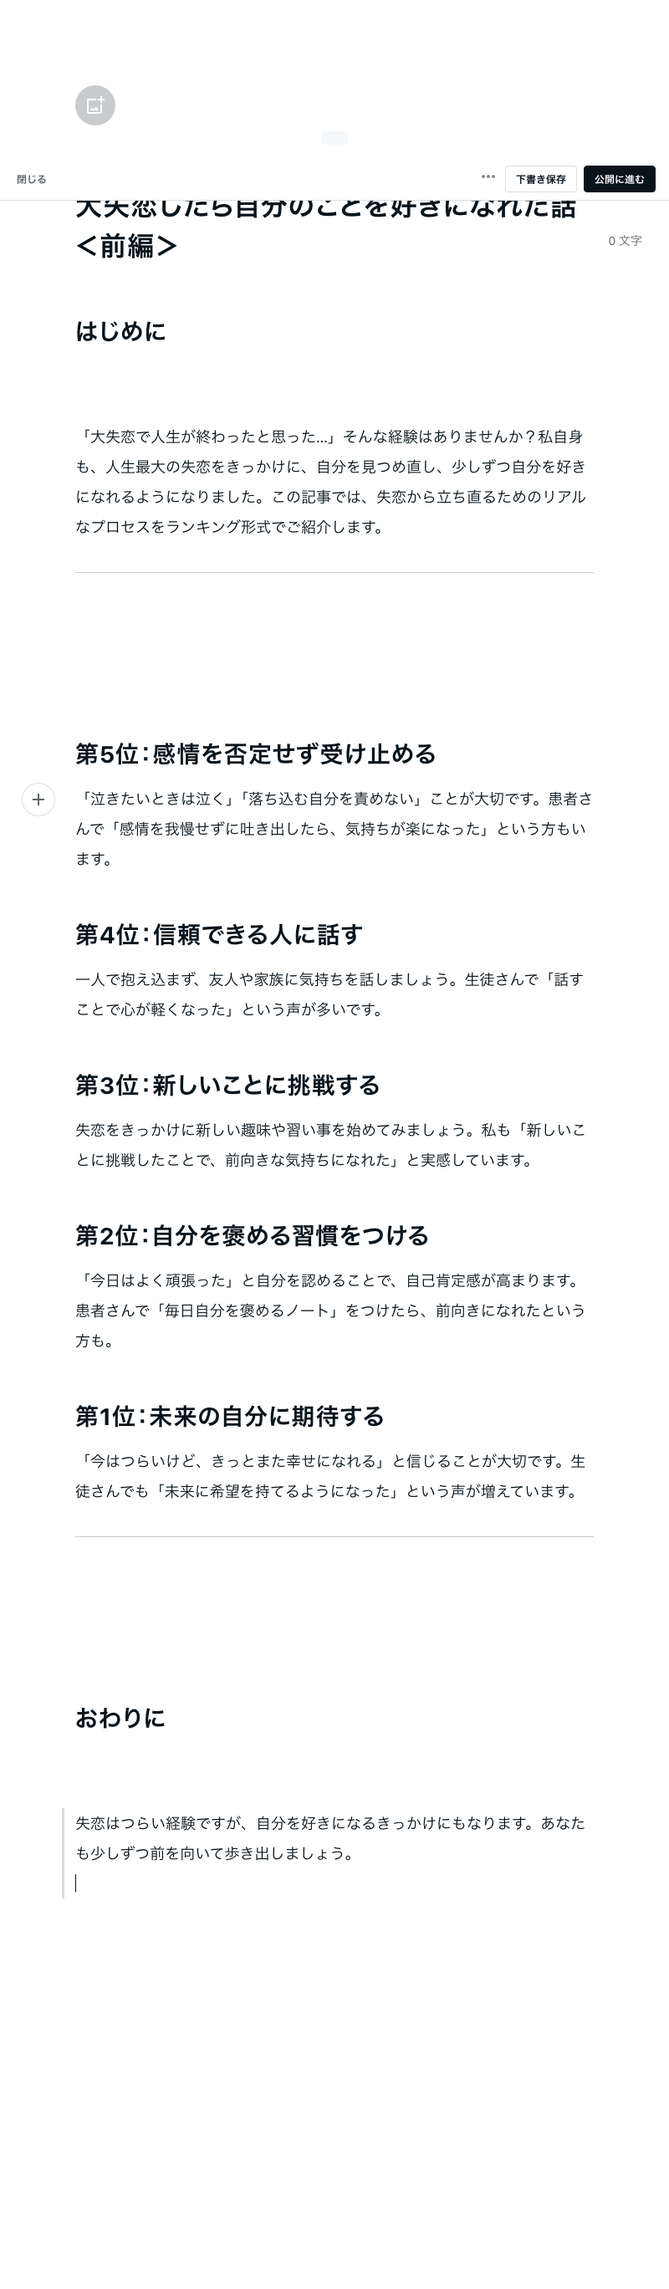
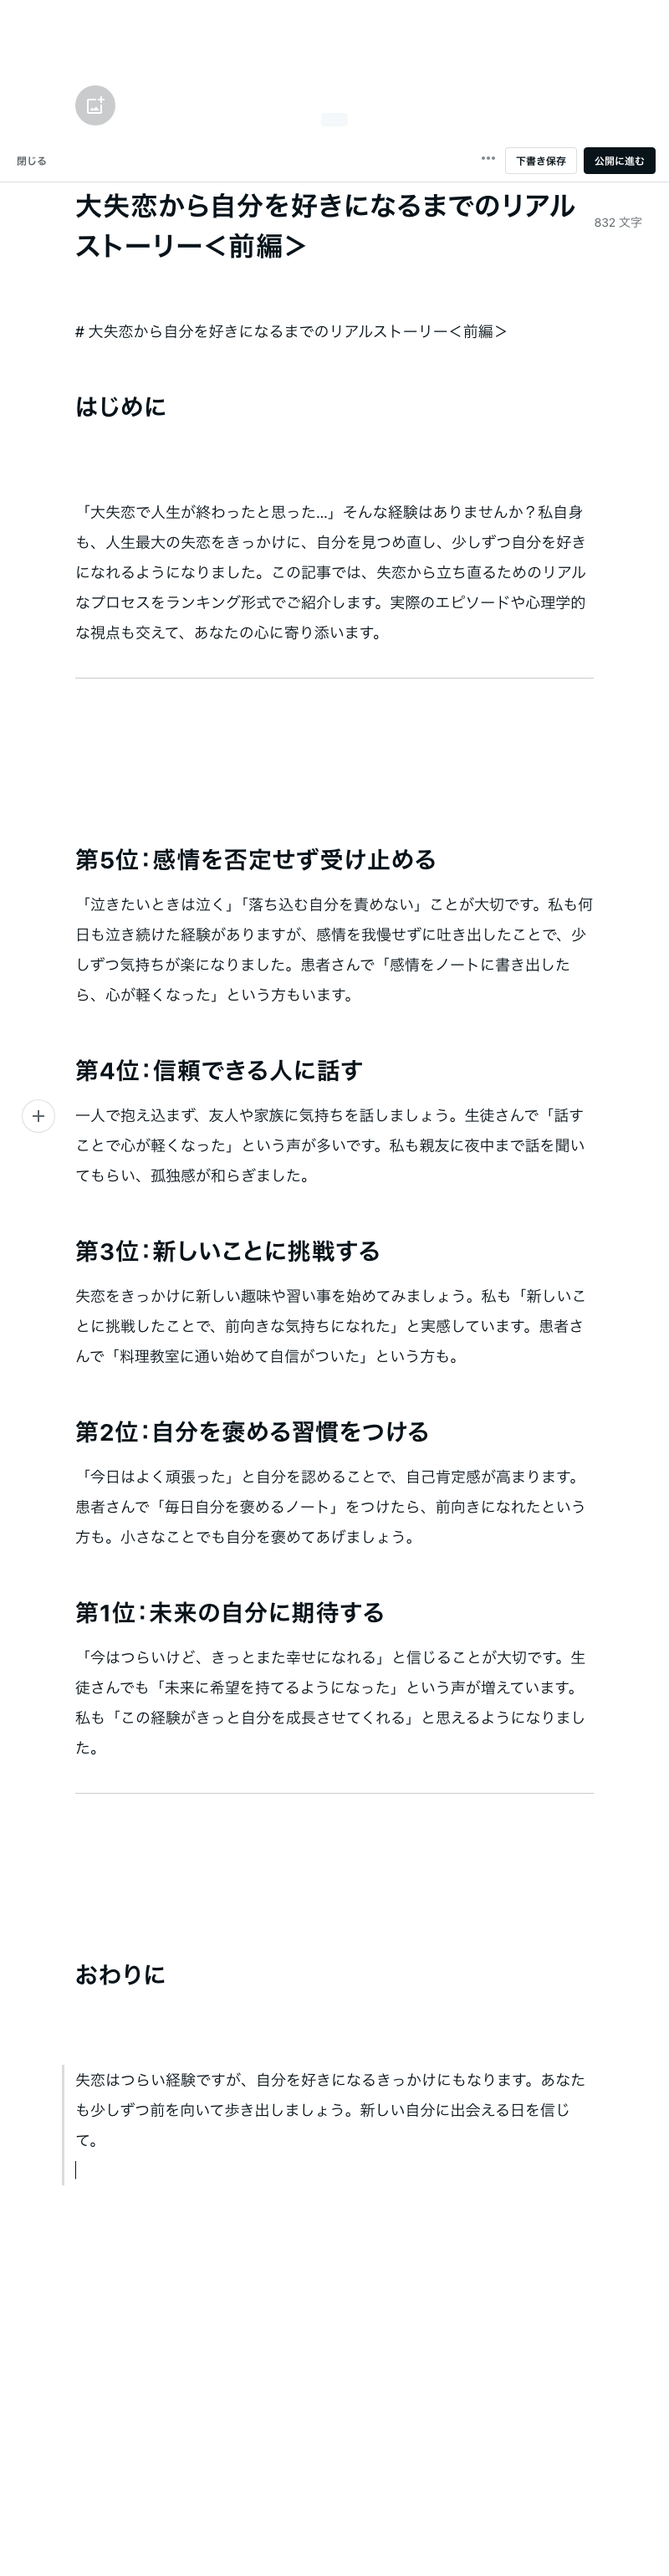
投稿成功

diff --git a/lambda/index.js b/lambda/index.js
@@ -94,10 +94,11 @@ async function main() {
   // 記事データの読み込み
   const fs = require('fs');
   const path = require('path');
-  const articlePath = path.join(__dirname, '../posts/8__2025-05-25-大失恋したら自分のことを好きになれた話前編.md');
+  const articlePath = path.join(__dirname, '../posts/8__2025-05-25-大失恋から自分を好きになるまでのリアルストーリー＜前編＞.md');
   const articleRaw = fs.readFileSync(articlePath, 'utf-8');
-  // タイトルはファイル名から抽出
-  const articleTitle = '大失恋したら自分のことを好きになれた話＜前編＞';
+  // タイトルはファイル先頭の# ...行から抽出
+  const titleMatch = articleRaw.match(/^#\s*(.+)$/m);
+  const articleTitle = titleMatch ? titleMatch[1].trim() : 'タイトル未取得';
   // 本文はファイル内容全体
   const articleBody = articleRaw;
 
@@ -128,6 +129,24 @@ async function main() {
   // スクリーンショットを保存
   await page.screenshot({ path: 'after_input.png', fullPage: true });
   console.log('スクリーンショットを保存しました: after_input.png');
+
+  // 「公開に進む」ボタンを探してクリック
+  console.log('「公開に進む」ボタンを探します...');
+  await page.waitForSelector('button');
+  const publishButtons = await page.$$('button');
+  let published = false;
+  for (const btn of publishButtons) {
+    const text = await (await btn.getProperty('innerText')).jsonValue();
+    if (text && text.trim().includes('公開に進む')) {
+      await btn.click();
+      published = true;
+      console.log('「公開に進む」ボタンをクリックしました');
+      break;
+    }
+  }
+  if (!published) {
+    throw new Error('「公開に進む」ボタンが見つかりませんでした');
+  }
 
   // await browser.close(); // ブラウザは自動で閉じない
 

diff --git a/posts/8__2025-05-25-大失恋から自分を好きになるまでのリアルストーリー＜前編＞.md b/posts/8__2025-05-25-大失恋から自分を好きになるまでのリアルストーリー＜前編＞.md
@@ -1,0 +1,28 @@
+# 大失恋から自分を好きになるまでのリアルストーリー＜前編＞
+
+## はじめに
+
+「大失恋で人生が終わったと思った…」そんな経験はありませんか？私自身も、人生最大の失恋をきっかけに、自分を見つめ直し、少しずつ自分を好きになれるようになりました。この記事では、失恋から立ち直るためのリアルなプロセスをランキング形式でご紹介します。実際のエピソードや心理学的な視点も交えて、あなたの心に寄り添います。
+
+---
+
+## 第5位：感情を否定せず受け止める
+「泣きたいときは泣く」「落ち込む自分を責めない」ことが大切です。私も何日も泣き続けた経験がありますが、感情を我慢せずに吐き出したことで、少しずつ気持ちが楽になりました。患者さんで「感情をノートに書き出したら、心が軽くなった」という方もいます。
+
+## 第4位：信頼できる人に話す
+一人で抱え込まず、友人や家族に気持ちを話しましょう。生徒さんで「話すことで心が軽くなった」という声が多いです。私も親友に夜中まで話を聞いてもらい、孤独感が和らぎました。
+
+## 第3位：新しいことに挑戦する
+失恋をきっかけに新しい趣味や習い事を始めてみましょう。私も「新しいことに挑戦したことで、前向きな気持ちになれた」と実感しています。患者さんで「料理教室に通い始めて自信がついた」という方も。
+
+## 第2位：自分を褒める習慣をつける
+「今日はよく頑張った」と自分を認めることで、自己肯定感が高まります。患者さんで「毎日自分を褒めるノート」をつけたら、前向きになれたという方も。小さなことでも自分を褒めてあげましょう。
+
+## 第1位：未来の自分に期待する
+「今はつらいけど、きっとまた幸せになれる」と信じることが大切です。生徒さんでも「未来に希望を持てるようになった」という声が増えています。私も「この経験がきっと自分を成長させてくれる」と思えるようになりました。
+
+---
+
+## おわりに
+
+失恋はつらい経験ですが、自分を好きになるきっかけにもなります。あなたも少しずつ前を向いて歩き出しましょう。新しい自分に出会える日を信じて。 
